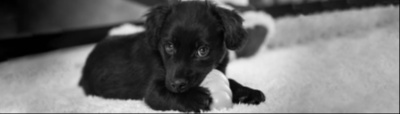
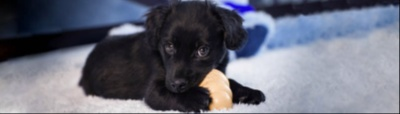
added RGB

Changed region(s): [[0.54, 0.0, 1.0, 0.5263], [0.15, 0.0, 0.39, 0.2368], [0.48, 0.6053, 0.6, 0.9737]]

diff --git a/ex3_main.py b/ex3_main.py
@@ -23,7 +23,7 @@ def lkDemo(img_path):
     t = np.array([[1, 0, -.2],
                   [0, 1, -.1],
                   [0, 0, 1]], dtype=np.float)
-    img_2 = cv2.warpPerspective(img_1, t, img_1.shape[::-1])
+    img_2 = cv2.warpPerspective(img_1, t, (img_1.shape[1], img_1.shape[0]))
     st = time.time()
     pts, uv = opticalFlow(img_1.astype(np.float), img_2.astype(np.float), step_size=20, win_size=5)
     et = time.time()
@@ -43,11 +43,12 @@ def hierarchicalkDemo(img_path):
     """
     print("hierarchical Demo")
     img_1 = cv2.cvtColor(cv2.imread(img_path), cv2.COLOR_BGR2GRAY)
+    img_1 = cv2.cvtColor(cv2.imread(img_path), cv2.COLOR_BGR2RGB)
     img_1 = cv2.resize(img_1, (0, 0), fx=.5, fy=0.5)
     t = np.array([[1, 0, 3],
                   [0, 1, -5],
                   [0, 0, 1]], dtype=np.float)
-    img_2 = cv2.warpPerspective(img_1, t, img_1.shape[::-1])
+    img_2 = cv2.warpPerspective(img_1, t, (img_1.shape[1], img_1.shape[0]))
 
     st = time.time()
     uv, pts = opticalFlowPyrLK(img_1.astype(np.float), img_2.astype(np.float), 4, stepSize=20, winSize=5)
@@ -60,7 +61,7 @@ def hierarchicalkDemo(img_path):
 def lkDemot(img_path, t):
     img_1 = cv2.cvtColor(cv2.imread(img_path), cv2.COLOR_BGR2GRAY)
     img_1 = cv2.resize(img_1, (0, 0), fx=.5, fy=0.5)
-    img_2 = cv2.warpPerspective(img_1, t, img_1.shape[::-1])
+    img_2 = cv2.warpPerspective(img_1, t, (img_1.shape[1], img_1.shape[0]))
     pts, uv = opticalFlow(img_1.astype(np.float), img_2.astype(np.float), step_size=20, win_size=5)
     displayOpticalFlow(img_2, pts, uv)
 
@@ -68,7 +69,7 @@ def lkDemot(img_path, t):
 def hierarchicalkDemot(img_path, t):
     img_1 = cv2.cvtColor(cv2.imread(img_path), cv2.COLOR_BGR2GRAY)
     img_1 = cv2.resize(img_1, (0, 0), fx=.5, fy=0.5)
-    img_2 = cv2.warpPerspective(img_1, t, img_1.shape[::-1])
+    img_2 = cv2.warpPerspective(img_1, t, (img_1.shape[1], img_1.shape[0]))
     uv, pts = opticalFlowPyrLK(img_1.astype(np.float), img_2.astype(np.float), 4, stepSize=20, winSize=5)
     displayOpticalFlowh(img_1, pts, uv)
 
@@ -132,11 +133,11 @@ def transLK(img):
     t = np.array([[1, 0, t_x],
                   [0, 1, t_y],
                   [0, 0, 1]], dtype=np.float)
-    shifted1 = cv2.warpPerspective(img, t, img.shape[::-1])
+    shifted1 = cv2.warpPerspective(img, t, (img.shape[1], img.shape[0]))
     cv2.imwrite('input/imTransA2.jpg', shifted1)
     print("Translation LK")
     mat = findTranslationLK(img, shifted1)
-    shifted2 = cv2.warpPerspective(img, mat, img.shape[::-1])
+    shifted2 = cv2.warpPerspective(img, mat, (img.shape[1], img.shape[0]))
     print("MSE:", MSE(shifted1, shifted2))
     print(mat)
 
@@ -155,11 +156,11 @@ def transCorr(img):
     t = np.array([[1, 0, t_x],
                   [0, 1, t_y],
                   [0, 0, 1]], dtype=np.float)
-    shifted1 = cv2.warpPerspective(img, t, img.shape[::-1])
+    shifted1 = cv2.warpPerspective(img, t, (img.shape[1], img.shape[0]))
     cv2.imwrite("input/imTransB2.jpg", shifted1)
     print("Translation Correlation")
     mat = findTranslationCorr(img, shifted1)
-    shifted2 = cv2.warpPerspective(img, mat, img.shape[::-1])
+    shifted2 = cv2.warpPerspective(img, mat,  (img.shape[1], img.shape[0]))
     print("MSE:", MSE(shifted1, shifted2))
     print(mat)
 
@@ -181,11 +182,11 @@ def rigidLK(img):
         [np.sin(np.radians(theta)), np.cos(np.radians(theta)), t_y],
         [0, 0, 1]
     ])
-    shifted1 = cv2.warpPerspective(img, t, img.shape[::-1])
+    shifted1 = cv2.warpPerspective(img, t, (img.shape[1], img.shape[0]))
     cv2.imwrite("input/imRigidA2.jpg", shifted1)
     print("Rigid Lk")
     mat = findRigidLK(img, shifted1)
-    shifted2 = cv2.warpPerspective(img, mat, img.shape[::-1])
+    shifted2 = cv2.warpPerspective(img, mat, (img.shape[1], img.shape[0]))
     print("MSE:", MSE(shifted1, shifted2))
     print(mat)
 
@@ -207,11 +208,11 @@ def rigidCorr(img):
         [np.sin(np.radians(theta)), np.cos(np.radians(theta)), t_y],
         [0, 0, 1]
     ])
-    shifted1 = cv2.warpPerspective(img, t, img.shape[::-1])
+    shifted1 = cv2.warpPerspective(img, t, (img.shape[1], img.shape[0]))
     cv2.imwrite("input/imRigidB2.jpg", shifted1)
     print("Rigid Correlation")
     mat = findRigidCorr(img, shifted1)
-    shifted2 = cv2.warpPerspective(img, mat, img.shape[::-1])
+    shifted2 = cv2.warpPerspective(img, mat, (img.shape[1], img.shape[0]))
     print("MSE:", MSE(shifted1, shifted2))
     print(mat)
 
@@ -230,7 +231,7 @@ def warpImage(img):
                   [0, 1, -40.7],
                   [0, 0, 1]], dtype=np.float)
 
-    im2 = cv2.warpPerspective(img, T, img.shape[::-1])
+    im2 = cv2.warpPerspective(img, T, (img.shape[1], img.shape[0]))
     im2_mine = warpImages(img, im2, T)
 
     print("MSE between my function and OpenCV function: ")
@@ -252,7 +253,7 @@ def warpImage(img):
         [np.sin(np.radians(theta)), np.cos(np.radians(theta)), -40],
         [0, 0, 1]
     ])
-    im2 = cv2.warpPerspective(img, T, img.shape[::-1])
+    im2 = cv2.warpPerspective(img, T, (img.shape[1], img.shape[0]))
     im2_mine = warpImages(img, im2, T)
 
     print("MSE between my function and OpenCV function: ")
@@ -275,18 +276,22 @@ def imageWarpingDemo():
     print("Image Warping Demo")
     img_path = 'input/imTransA1.jpg'
     img1 = cv2.cvtColor(cv2.imread(img_path), cv2.COLOR_BGR2GRAY)
+    img1 = cv2.cvtColor(cv2.imread(img_path), cv2.COLOR_BGR2RGB)
     img1 = cv2.resize(img1, (0, 0), fx=.5, fy=.5)
 
     img_path = 'input/imTransB1.jpg'
     img2 = cv2.cvtColor(cv2.imread(img_path), cv2.COLOR_BGR2GRAY)
+    # img2 = cv2.cvtColor(cv2.imread(img_path), cv2.COLOR_BGR2RGB)
     img2 = cv2.resize(img2, (0, 0), fx=.5, fy=.5)
 
     img_path = 'input/imRigidA1.jpg'
     img3 = cv2.cvtColor(cv2.imread(img_path), cv2.COLOR_BGR2GRAY)
+    img3 = cv2.cvtColor(cv2.imread(img_path), cv2.COLOR_BGR2RGB)
     img3 = cv2.resize(img3, (0, 0), fx=.5, fy=.5)
 
     img_path = 'input/imRigidB1.jpg'
     img4 = cv2.cvtColor(cv2.imread(img_path), cv2.COLOR_BGR2GRAY)
+    # img4 = cv2.cvtColor(cv2.imread(img_path), cv2.COLOR_BGR2RGB)
     img4 = cv2.resize(img4, (0, 0), fx=.5, fy=.5)
 
     transLK(img1)
